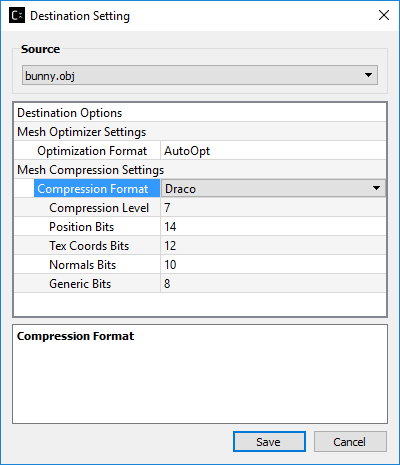
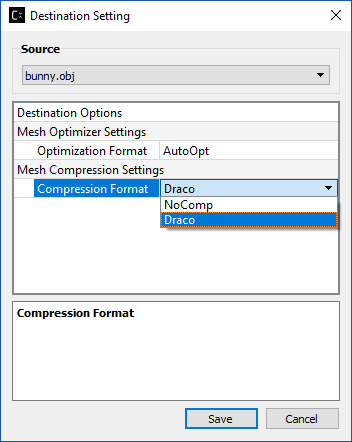
[Compressonator] V3.1 doc and obj model viewer updates

diff --git a/Compressonator/Applications/_Plugins/C3DModel_Loaders/drc/ModelLoader_drc.cpp b/Compressonator/Applications/_Plugins/C3DModel_Loaders/drc/ModelLoader_drc.cpp
@@ -64,7 +64,7 @@ void* Plugin_ModelLoader_drc::GetModelData()
         return (void*)m_pc.get();
 }
 
-int Plugin_ModelLoader_drc::LoadModelData(const char* pszFilename, const char* pszFilename2, void* pluginManager, void* msghandler,
+int Plugin_ModelLoader_drc::LoadModelData(const char* pszFilename, const char* pszFilename2, void* pluginManager, void* inDracoOptions,
                                           CMP_Feedback_Proc pFeedbackProc)
 {
     if (!pluginManager)
@@ -77,7 +77,7 @@ int Plugin_ModelLoader_drc::LoadModelData(const char* pszFilename, const char* p
     m_mesh                      = nullptr;
     bool              dracofile = (strcmp(pszFilename, "OBJ") != 0);
     draco::DracoTimer timer;
-    CMP_DracoOptions* DracoOptions = (CMP_DracoOptions*)(msghandler);
+    CMP_DracoOptions* DracoOptions = (CMP_DracoOptions*)(inDracoOptions);
 
     if (!dracofile)
     {
@@ -271,11 +271,12 @@ int Plugin_ModelLoader_drc::LoadModelData(const char* pszFilename, const char* p
         if (dracofile)
         {
             draco::ObjEncoder obj_encoder;
-            std::string       output = DracoOptions->output;
-            if (output == "")
-            {
+            std::string       output;
+            //std::string       output = DracoOptions->output;
+            //if (output == "")
+            //{
                 output = string(pszFilename) + ".obj";
-            }
+            //}
 
             if (!obj_encoder.EncodeToFile(*m_mesh, output))
             {
@@ -288,11 +289,11 @@ int Plugin_ModelLoader_drc::LoadModelData(const char* pszFilename, const char* p
             PluginManager* localpluginManager = (PluginManager*)(pluginManager);
             if (localpluginManager)
             {
-                PluginInterface_3DModel_Loader* plugin_loader =
+                PluginInterface_3DModel_Loader* plugin_loader_obj =
                     reinterpret_cast<PluginInterface_3DModel_Loader*>(localpluginManager->GetPlugin("3DMODEL_LOADER", "OBJ"));
-                if (plugin_loader)
+                if (plugin_loader_obj)
                 {
-                    int result = plugin_loader->LoadModelData(output.c_str(), NULL, &pluginManager, msghandler, pFeedbackProc);
+                    int result = plugin_loader_obj->LoadModelData(output.c_str(), NULL, &pluginManager, NULL, pFeedbackProc);
                     if (result != 0)
                     {
                         throw("Error Loading Model Data");
@@ -300,7 +301,7 @@ int Plugin_ModelLoader_drc::LoadModelData(const char* pszFilename, const char* p
                     clock_t elapsed = clock() - start;
                     loadTime        = elapsed / (CLOCKS_PER_SEC / 1000);
 
-                    m_ModelData = (CMODEL_DATA*)plugin_loader->GetModelData();
+                    m_ModelData = (CMODEL_DATA*)plugin_loader_obj->GetModelData();
                     if (!m_ModelData)
                     {
                         if (g_CMIPS)

diff --git a/Compressonator/Applications/CompressonatorGUI/Components/cp3DModelView.cpp b/Compressonator/Applications/CompressonatorGUI/Components/cp3DModelView.cpp
@@ -720,8 +720,24 @@ cp3DModelView::cp3DModelView(const QString filePathName, const QString filePathN
                 }
             }
             else
-                result = m_plugin_loader->LoadModelData(srcglTFfile1.c_str(), srcglTFfile2.size() > 0 ? srcglTFfile2.c_str() : "", &g_pluginManager,
-                                                        msgHandler, &ProgressCallback);
+            {
+                if (strcmp(c_ext, "DRC") == 0)
+                {
+                    CMP_DracoOptions DracoOptions;
+                    DracoOptions.output = "";
+                    result = m_plugin_loader->LoadModelData(srcglTFfile1.c_str(),
+                                                        srcglTFfile2.size() > 0 ? srcglTFfile2.c_str() : "", &g_pluginManager,
+                                                        &DracoOptions, 
+                                                        &ProgressCallback);
+                }
+                else 
+                {
+                    result = m_plugin_loader->LoadModelData(srcglTFfile1.c_str(),
+                                                        srcglTFfile2.size() > 0 ? srcglTFfile2.c_str() : "", &g_pluginManager,
+                                                        msgHandler, 
+                                                        &ProgressCallback);
+                }
+            }
 
             if (result != 0)
             {

diff --git a/docs/source/command_line_tool/commandline.rst b/docs/source/command_line_tool/commandline.rst
@@ -3,20 +3,20 @@
 Usage CompressonatorCLI.exe [options] SourceFile DestFile
 
 +------------------------+----------------------------------------------+
-|Mip Map options:        |                                              |
+|Mip Map Options:        |                                              |
 +========================+==============================================+
 |-nomipmap               | Turns off Mipmap generation                  |
 +------------------------+----------------------------------------------+
-|-mipsize    <size>      | The size in pixels used to determine         |
+|-\mipsize    <size>     | The size in pixels used to determine         |
 |                        | how many mip levels to generate              |
 +------------------------+----------------------------------------------+
-|-miplevels  <Level>     | Sets Mips Level for output,                  |
+|-\miplevels  <Level>    | Sets Mips Level for output,                  |
 |                        | (mipSize overides this option): default is 1 |
 +------------------------+----------------------------------------------+
 
 
 +---------------------+------------------------------------------------------------+
-|Compression options  |                                                            |
+|Compression Options  |                                                            |
 +=====================+============================================================+
 | -fs <format>        | Optionally specifies the source texture format to use      |
 +---------------------+------------------------------------------------------------+
@@ -41,7 +41,7 @@ Usage CompressonatorCLI.exe [options] SourceFile DestFile
 +---------------------+------------------------------------------------------------+
 
 +-----------------------+----------------------------------------------------------+
-|channel formats        |                                                          |
+|Channel Formats        |                                                          |
 +=======================+==========================================================+
 |ARGB_16                |ARGB format with 16-bit fixed channels                    |
 +-----------------------+----------------------------------------------------------+
@@ -74,7 +74,7 @@ Usage CompressonatorCLI.exe [options] SourceFile DestFile
 +-----------------------+----------------------------------------------------------+
 
 +-----------------------+-----------------------------------------------------------+
-|compression formats    |                                                           |
+|Compression Formats    |                                                           |
 +=======================+===========================================================+
 |ASTC                   |Adaptive Scalable Texture Compression                      |
 +-----------------------+-----------------------------------------------------------+
@@ -155,7 +155,7 @@ Usage CompressonatorCLI.exe [options] SourceFile DestFile
 +-----------------------+-----------------------------------------------------------+
 
 +-----------------------------+----------------------------------------------------------+
-|codec options                |Reference developer SDK documentation for range of values |
+|Codec Options                |Reference developer SDK documentation for range of values |
 +=============================+==========================================================+
 |-UseChannelWeighting <value> |Use channel weightings                                    |
 +-----------------------------+----------------------------------------------------------+
@@ -220,7 +220,7 @@ Usage CompressonatorCLI.exe [options] SourceFile DestFile
 +-----------------------------+----------------------------------------------------------+
 |-log <filename>              |Logs process information to a user defined text file      |
 +-----------------------------+----------------------------------------------------------+
-|-ff  <ext>,<ext>,...,<ext>   |File filters used for processing a list of image files    |
+|-\f\f  <ext><ext>,...,<ext>  |File filters used for processing a list of image files    |
 |                             |with specified extensions in a given directory folder     |
 |                             |supported <ext> are any of the following combinations:    |
 |                             |DDS,KTX,TGA,EXR,PNG,BMP,HDR,JPG,TIFF,PPM                  |
@@ -228,7 +228,7 @@ Usage CompressonatorCLI.exe [options] SourceFile DestFile
 
 
 +-----------------------------+----------------------------------------------------------+
-|Output options               |                                                          |
+|Output Options               |                                                          |
 +=============================+==========================================================+
 |-silent                      |Disable print messages                                    |
 +-----------------------------+----------------------------------------------------------+
@@ -238,64 +238,71 @@ Usage CompressonatorCLI.exe [options] SourceFile DestFile
 +-----------------------------+----------------------------------------------------------+
 
 
-Example compression
+Example Compression
 -------------------
-CompressonatorCLI.exe -fd ASTC image.bmp result.astc |br|
-CompressonatorCLI.exe -fd ASTC -BlockRate 0.8 image.bmp result.astc  |br|
-CompressonatorCLI.exe -fd ASTC -BlockRate 12x12 image.bmp result.astc |br|
-CompressonatorCLI.exe -fd BC7  image.bmp result.dds |br|
-CompressonatorCLI.exe -fd BC7  -NumTheads 16 image.bmp result.dds |br|
-CompressonatorCLI.exe -fd BC6H image.exr result.dds |br|
+`CompressonatorCLI.exe -fd ASTC image.bmp result.astc` |br|
+`CompressonatorCLI.exe -fd ASTC -BlockRate 0.8 image.bmp result.astc`  |br|
+`CompressonatorCLI.exe -fd ASTC -BlockRate 12x12 image.bmp result.astc` |br|
+`CompressonatorCLI.exe -fd BC7  image.bmp result.dds` |br|
+`CompressonatorCLI.exe -fd BC7  -NumTheads 16 image.bmp result.dds` |br|
+`CompressonatorCLI.exe -fd BC6H image.exr result.dds` |br|
 
 Example decompression from compressed image using CPU
 -----------------------------------------------------
-CompressonatorCLI.exe  result.dds image.bmp
+`CompressonatorCLI.exe  result.dds image.bmp`
 
 
-Compression followed by Decompression
+Compression Followed by Decompression
 -------------------------------------
 (Useful for qualitative analysis)
 
-CompressonatorCLI.exe -fd BC7  image.bmp result.bmp
+`CompressonatorCLI.exe -fd BC7  image.bmp result.bmp`
 
 
-GPU based decompression 
+GPU Based Decompression 
 ------------------------
-CompressonatorCLI.exe  -DecodeWith OpenGL result.dds image.bmp
+`CompressonatorCLI.exe  -DecodeWith OpenGL result.dds image.bmp`
 
 
 Mesh Compression
 ----------------
 (support glTF and obj file only)
 
-Mesh compression using only default quantization bits settings as mentioned above:
-CompressonatorCLI.exe -draco source.gltf dest.gltf
+The following mesh compression uses default quantization bits with Google Draco library settings 
+(These default settings are currently not programmable):
 
-CLI mesh compression is performed with google Draco library with settings:
-compression level as 7, 
-quantization bits for position as 14, 
-quantization bits value for texture coordinates as 12,
-quantization bits value for normal as 10.
+- Compression level = 7.
+
+- Quantization bits for position = 14.
+
+- Quantization bits value for texture coordinates = 12.
+
+- quantization bits value for normal = 10.
+
+
+`CompressonatorCLI.exe -draco source.gltf dest.gltf`
+
 
 Mesh Decompression
 ------------------
 (support glTF and obj file only)
 
-CompressonatorCLI.exe source.gltf dest.gltf
+`CompressonatorCLI.exe source.gltf dest.gltf`
 
 
 Mesh Optimization
 -----------------
 (support glTF and obj file only)
 
-Using default settings:|br|
-Optimize vertices with cache size= 16; Optimize overdraw with ACMR Threshold= 1.05; Optimize vertices fetch.|br|
+The following uses default settings that optimizes vertices with cache size = 16, overdraw with ACMR Threshold = 1.05 and vertices fetch. |br|
 
-CompressonatorCLI.exe -meshopt source.gltf dest.gltf
-CompressonatorCLI.exe -meshopt source.obj dest.obj
+`CompressonatorCLI.exe -meshopt source.gltf dest.gltf`
 
-Specifies settings:|br|
-CompressonatorCLI.exe -meshopt -optVCacheSize  32 -optOverdrawACMRThres  1.03 -optVFetch 0 source.gltf dest.gltf
+`CompressonatorCLI.exe -meshopt source.obj dest.obj`
+
+Specifies settings:
+
+`CompressonatorCLI.exe -meshopt -optVCacheSize  32 -optOverdrawACMRThres  1.03 -optVFetch 0 source.gltf dest.gltf`
 
 CLI mesh optimization include settings:
 

diff --git a/docs/source/gui_tool/user_guide/3DModelCompression.rst b/docs/source/gui_tool/user_guide/3DModelCompression.rst
@@ -255,42 +255,8 @@ Mesh Compression Settings for Draco selection
 
 When selected it will perform mesh compression using
 `Draco <https://opensource.google.com/projects/draco>`__ encoder lib.
-For Compressonator V3.0 this option is only available for obj files
 
 |image103|
-
-Compression Level
-^^^^^^^^^^^^^^^^^
-
-This is in range of 0-10. Higher number produces more compressed
-(smaller) mesh. Default is set to 7.
-
-Position Bits
-^^^^^^^^^^^^^
-
-Quantization bits used for vertices positions attribute. Default is set
-to 14.
-
-Tex Coords Bits
-^^^^^^^^^^^^^^^
-
-Quantization bits used for texture coordinate attribute. Default is set
-to 12.
-
-Normal Bits
-^^^^^^^^^^^
-
-Quantization bits used for normal vector attribute. Default is set to
-10.
-
-Generic Bits
-^^^^^^^^^^^^
-
-Quantization bits used for the other generic attribute. Default is set
-to 8.
-
-Selecting “NoOpt” will turn off Mesh Optimization and “NoComp” will turn
-off Mesh Compression.
 
 Click “Save” after completing the mesh optimizer and/or mesh compression
 settings. You will see a 3\ :sup:`rd` level destination settings node
@@ -310,7 +276,7 @@ Analyzing Mesh
 --------------
 
 Mesh analysis can be performed on the original model file as well as the
-resulted model file (1:sup:`st` and 2\ :sup:`nd` level items in the tree
+resulted model file ( 1\ :sup:`st` and 2\ :sup:`nd` level items in the tree
 view of Project Explorer). Only .gltf and .obj files are supported for
 mesh analysis.
 
@@ -370,12 +336,12 @@ to 256.
 
 After done setting the desired mesh analysis settings, click “Run Mesh
 Analysis”, if you run mesh analysis from the source model file
-(1:sup:`st` level tree item), the window will be updated with text
+(1\ :sup:`st` level tree item), the window will be updated with text
 output as shown below:
 
 |image108|
 
-If you run mesh analysis from the resulted model file (2:sup:`nd` level
+If you run mesh analysis from the resulted model file (2\ :sup:`nd` level
 tree item), the window is updated with both resulted model file analysis
 result as well as the original model file analysis result as shown
 below:

diff --git a/docs/source/revisions.rst b/docs/source/revisions.rst
@@ -39,7 +39,7 @@ November 2018
 
 -  **3D Model**        
         
-        **Model Mesh Compression:** Additional support for gltf 2.0 compression extensions (KHR_draco_mesh_compression) is added to `CLI <command_line_tool/commandline.html#example-mesh-decompression-usage-support-gltf-and-obj-file-only>`__ and `GUI <gui_tool/user_guide/UserGuide.html#d-mesh-optimization-and-or-mesh-compression>`__ 
+        **Model Mesh Compression:** Additional support for gltf 2.0 compression extensions (KHR_draco_mesh_compression) is added to `CLI <command_line_tool/commandline.html#mesh-compression>`__ and `GUI <gui_tool/user_guide/3DModelCompression.html#d-mesh-optimization-and-or-mesh-compression>`__ 
 
         **Selectable 3D Model Viewers:** Support for the Vulkan Viewer code introduced in 3.0 can now be set in GUI application settings, this is an alpha version and not expected  to work for all glTF models, feature for this viewer compared to DX12 has been limited.
 
